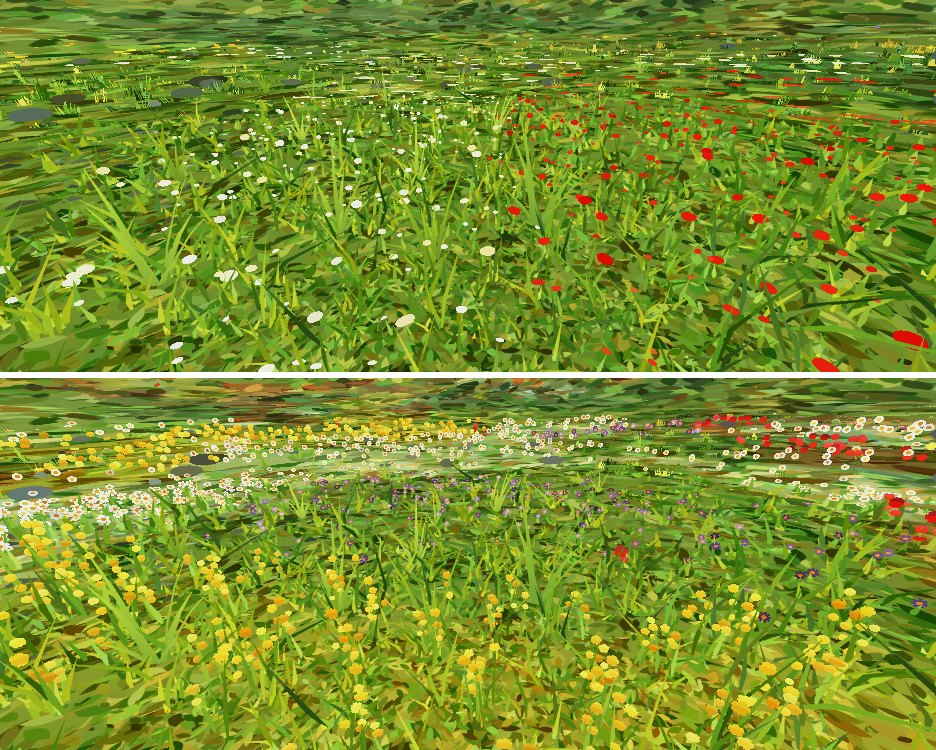
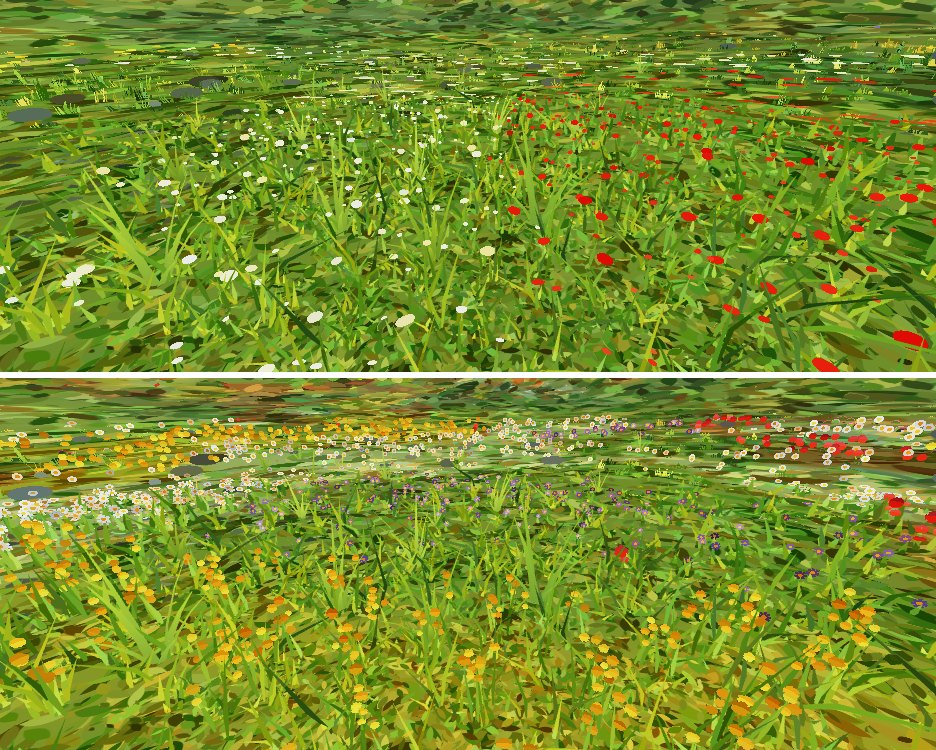
[painter] flora lane 7: the meadow fixes SEEN and measured; the autumn asters trimmed; hand-over current
The coordinator's three asks on step 5 (drifts clustered near the eye, heads bigger and bolder, the bold kinds in every
place's near mix), built in 7fdc02e..6459e3f and now seen in docs/shots/painter/flora-design/m-*-bloom-off-on.jpg
(?bloom=0 against on): the level meadow at 1.8 m dense drifts of buttercups, ox-eyes, asters and poppies, and from 10 m
dots of their colours; the green wood a solid bluebell drift; the autumn landing drifts of asters, goldenrod and hawkbit
where it had none. From 150 m: a few more flecks, no drifts (the far-view lane's channel).

MEASURED: lookstats A -> B, meadow 1.8 m S(V<.3) 0.89 -> 0.88 and V>.90 2.5 -> 3.8 % (inside C6 after three colour
passes), 10 m 0.81 -> 0.77, landing 0.47 -> 0.43, green wood 0.47 -> 0.48, 150 m 0.17 -> 0.19. Cost (the overdraw
counter): the meadow's near marks -5.7k fragments; the landing +73k (+1.5 ms at 20 ns a fragment, 0.9-2.6; the heads'
least size 13.7k of it), OVER the design's F budget of +1 (at most +1.8) ms: reported with its dials. data/looks/earth.js:
the Michaelmas aster heads [2, 5] -> [2, 4], peak 14 -> 11 (counted: little effect on the landing's cost). The meadow
1.8 m and 10 m sheets and the heads' crop are retaken on 6459e3f; the others are from 7145abd..a7e813f.
Tests: tests/ 325/325, src/world + src/data/looks 65/65 (src/physics untouched).

Claude-Session: https://claude.ai/code/session_01R5Bri3fPxQ8GrgfQiYdQ8T

diff --git a/src/data/looks/earth.js b/src/data/looks/earth.js
@@ -35,7 +35,7 @@ const FLORA_AW = {      // the autumn wood: violet against the gold and yellow-g
   // the old ramps, which ended at 0.5, the first place the owner sees had no flower in view, COUNTED 24 Nov)
   sward: { floor: 0.10 },
   blooms: [
-    { kind: 'Michaelmas aster', shape: 'rayed', c: M('cobaltViolet', 'ultramarine', 0.25), eye: M('quinGold', 'cadOrange', 0.2), head: [0.012, 0.019], stalk: [0.28, 0.55], heads: [2, 5], drift: 9, peak: 14, share: 0.9, hab: { canopy: [0.88, 0.35] }, edge: -0.2 },
+    { kind: 'Michaelmas aster', shape: 'rayed', c: M('cobaltViolet', 'ultramarine', 0.25), eye: M('quinGold', 'cadOrange', 0.2), head: [0.012, 0.019], stalk: [0.28, 0.55], heads: [2, 4], drift: 9, peak: 11, share: 0.9, hab: { canopy: [0.88, 0.35] }, edge: -0.2 },
     { kind: 'harebell', shape: 'bell', c: M('cobaltViolet', 'cobaltBlue', 0.3), head: [0.010, 0.015], stalk: [0.20, 0.36], heads: [1, 3], drift: 7, peak: 12, share: 0.6, hab: { canopy: [0.92, 0.4] }, edge: -0.2 },
     { kind: 'late hawkbit', shape: 'rayed', c: M('quinGold', 'lemonYellow', 0.4), eye: M('quinGold', 'cadOrange', 0.35), head: [0.014, 0.021], stalk: [0.14, 0.34], heads: [1, 2], drift: 11, peak: 14, share: 0.9, hab: { canopy: [0.8, 0.25] }, edge: -0.2 },
     { kind: 'goldenrod', shape: 'spike', c: M('quinGold', 'yellowOchre', 0.25), head: [0.12, 0.22], stalk: [0.45, 0.85], heads: [1, 1], drift: 13, peak: 4, share: 0.4, hab: { canopy: [0.8, 0.25] }, edge: -0.2 },

diff --git a/docs/notes/painter.md b/docs/notes/painter.md
@@ -110,14 +110,50 @@ commit (the alpine meadow's easel, every change of this lane in).
    four times the blades; its cure is the look director's shared foliage shade (their build lane L2), not this lane's.
    A floor deepened as a glaze of its own colour (tried first) raised the meadow's darks to 0.52 from 60 m and was
    changed to the quieter step above.
+7. THE MEADOW FIXES (the coordinator on step 5: "the 'on' still is LESS striking than 'off' near the eye ... small violet
+   asters sprinkled evenly, like confetti"; asked: drifts clustered near the eye, heads bigger and bolder, the bold kinds
+   in every place's near mix). What was done, in the order it was SEEN:
+   - FIRST TRY, NOT GOOD (7fdc02e): one patch field shared by every kind. COUNTED with a Node script over 1,500 random
+     60 m squares of Earth (the scratch `bloomstats.mjs`, its method in the commit): it halved the ground in a drift
+     (meadow 29 -> 19 %, green wood 16 -> 8 %) and the landing had no flower in view.
+   - `bloom.js bloomAt`: the density is BIMODAL, ss(0.06, 0.28) of the product of the fields (a drift solid inside, a
+     short ragged step, almost nothing between: four soft fields multiplied had lain at a middling density everywhere,
+     which IS the confetti); a softer shared patch field (`PT`); drift hearts with a 0.30 step and edge 0.05; sprinkle
+     0.03. COUNTED: meadow 47 % of its ground in a drift (40 % dense), 2 % of 60 m views without one; green wood 25 %;
+     coast 36 %; autumn wood 15 % (its kinds now grow under its open crowns, ramps to 0.88-0.92, and `edge: -0.2`).
+   - THE LANDING always stands in a patch (`bloom.js`: full within 18 m of `S._spawn`, gone by 45 m): the patch field
+     happened to leave the first view's bank bare.
+   - HEADS: `BLOOM_HEAD` 2.0 -> 2.5, a cell's plants in one tuft; NEAR_VERT gives every head (kinds 7-12) a least size on
+     screen, half-width 2.6 px (bells 2.0, spikes and froth 1.4), the whole head grown, as a share per ring (`uNearK.w`:
+     middle 0.85, far 0.6). The middle and far rings lay the drift's own head kind where they laid 1-2 px round touches.
+   - THE BOLD KINDS: the alpine meadow led by the poppy, the ox-eye and a new meadow buttercup (the aster a sprinkle);
+     the green wood's buttercup in every glade (most in the damp) and an ox-eye in the open; the autumn wood's hawkbit
+     bigger.
+   - THE GROUND'S TINT for a flower far round the wheel from the grass (red, violet) is a third as strong (`hueNear`):
+     from 10 m the poppy drifts were rust-brown mud; such drifts are carried by their heads now.
+   - C6 (V > 0.90 at most 4 %): the dense meadow at 1.8 m measured 6.9 %, then 5.7, 3.1 (but the buttercups read as
+     orange marigolds), and 3.8 % with the yellow cups' gold a glaze of lemon over quinacridone gold mixed six tenths back
+     to lemon, their upper part four tenths, and the ox-eye D 0.75.
+   SEEN (`m-*-bloom-off-on.jpg`, `?bloom=0` against on, the f-* cameras): the meadow at 1.8 m is dense drifts of
+   buttercups, ox-eyes, asters and poppies, and from 10 m the drifts read as dots of their colours; the green wood a solid
+   bluebell drift; the landing drifts of violet asters on the bank, goldenrod and hawkbit at the water and the feet. From
+   150 m a few more red and white flecks, no drifts: that still waits for the far-view lane's channel (FV6 with C).
+   lookstats A -> B: meadow 1.8 m S(V<.3) 0.89 -> 0.88, V>.90 2.5 -> 3.8 %; 10 m 0.81 -> 0.77, 0.3 -> 1.3 %; 150 m 0.17
+   -> 0.19; green wood 0.47 -> 0.48; landing 0.47 -> 0.43, 2.4 -> 2.4 %.
+   COST (the scratch overdraw counter, 936 x 372 class, the level eye; the heads' least size replayed): the meadow's near
+   marks 149,344 -> 143,649 fragments (the new flowers replace the old ones); THE LANDING 279,137 -> 352,549 (+73k: +1.5 ms
+   at K2's 20 ns, 0.9-2.6, and about 1.4 times that at the phone's picture), of which the heads' least size is 13.7k. OVER
+   the design's F budget (+1, at most +1.8 ms). The dials: the least size (2.6 px), the landing's patch, a kind's `peak`.
 
 **Tests:** `tests/` 325 of 325, `src/world/` + `src/data/looks/` 65 of 65. `src/physics/` 415 of 416: the one failure is
 `loose.test.mjs` P25 ("under the closed wood the litter still puffs: 2"), which is FLAKY ON THE CLEAN COMMIT TOO (it
 failed 1 run in 5 there with none of this lane's changes): reported to the coordinator, not this lane's.
 
-**Next:** the look director's standard set (S1-S6 at 1024 x 480) with `lookstats.py` for the review; the year for
-the flowers (a uniform that lets a kind's heads go out of season in the vertex shader, no seam); O and F4 wait for the
-trees lane. ASKED OF THE FAR-VIEW LANE through the coordinator: a ground dab that takes a drift's colour WHOLE
+**Next:** the lime (F10, with the look director: the blades' own lit greens as data, after merging look-director's L2);
+the look director's standard set (S1-S6 at 1024 x 480) with `lookstats.py`; THE YEAR for the flowers (the coordinator's
+ruling: build it, behind its own switch, every place keeping a bold season-true kind in flower near the eye in every
+season; a first build is parked in a scratch worktree: windows in iTone's top bits, heads thinned in NEAR_VERT); then FV6
+(meadows from the air) with C. O and F4 wait for the trees lanes. ASKED OF THE FAR-VIEW LANE through the coordinator: a ground dab that takes a drift's colour WHOLE
 (pointillist) from `bloomAt`, the one thing that would make drifts read from 150 m and a mile.
 
 
